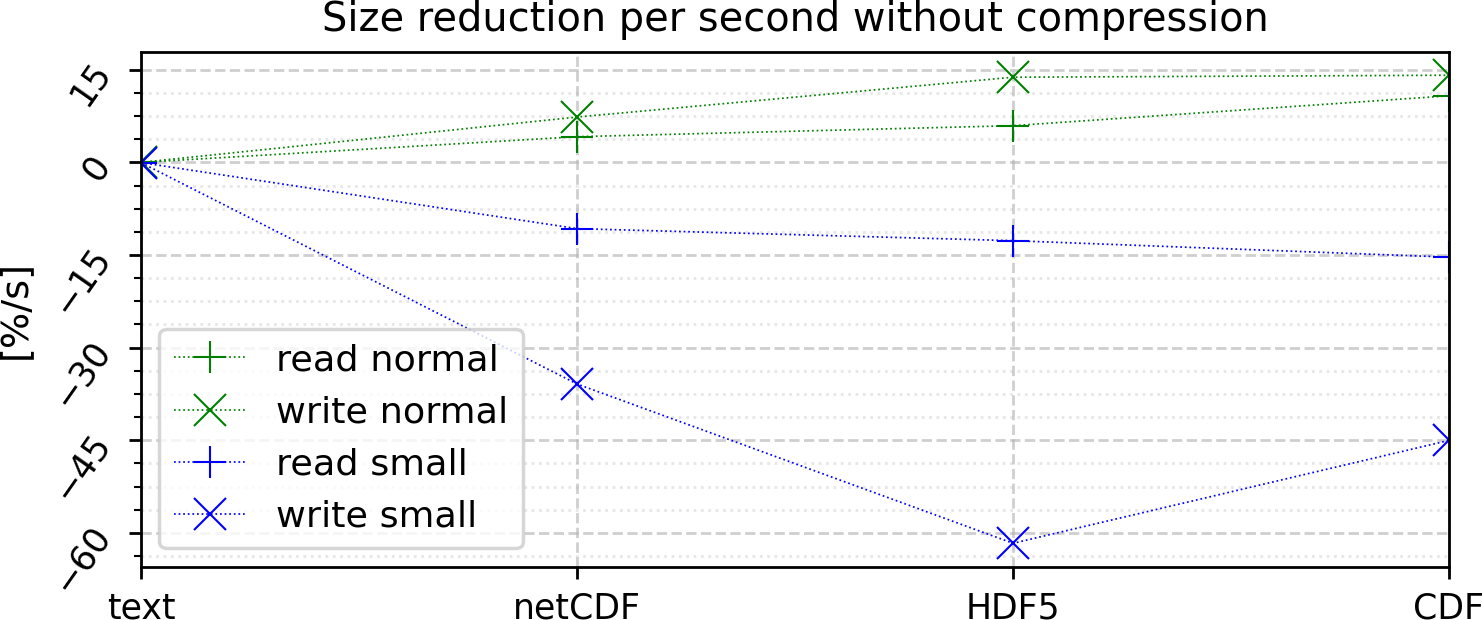
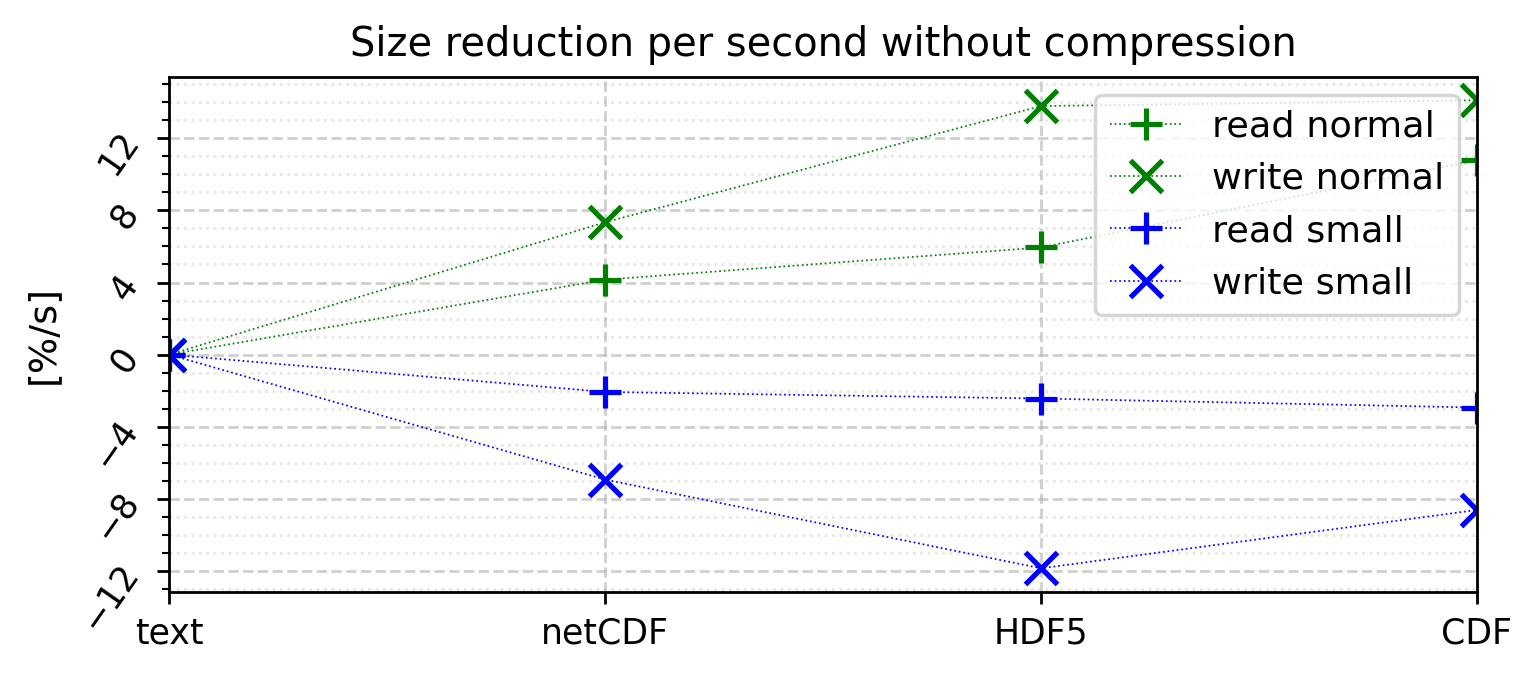
backup

diff --git a/result_analysis/plot.py b/result_analysis/plot.py
@@ -6,9 +6,10 @@ np.set_printoptions(precision=3, suppress=True)
 #plt.rc('font', size=16)
 #plt.rc('legend', fontsize=10)
 
-colors=['green','green','blue','blue']
-def plot_(labels, data, markers, label_names, filename, ylabel, title, limit_y = True):
-    fig = plt.figure(tight_layout = True, dpi = 250, figsize=[6.25,2.8])
+colors = ['green','green','blue','blue']#['green','blue']#
+markers = ["+", "x"]#["+", "+", "x", "x"]#
+def plot_(labels, data, markers, colors, label_names, filename, ylabel, title, limit_y = True, figsize = [6.25,2.8], linestyle = ":"):
+    fig = plt.figure(tight_layout = True, dpi = 250, figsize=figsize)
 
 
     print(filename)
@@ -16,7 +17,7 @@ def plot_(labels, data, markers, label_names, filename, ylabel, title, limit_y =
     for i in range(0, len(data)):
         print(label_names[i], data[i])
         #data[i] = data[i][np.logical_not(np.isnan(data[i]))]
-        plt.plot(labels, data[i], marker = markers[i%2], color=colors[i], label = label_names[i], linestyle=":", markersize=9,lw=0.5,mew=0.6)
+        plt.plot(labels, data[i], marker = markers[i%2], color=colors[i], label = label_names[i], linestyle=linestyle, markersize=9,lw=0.5,mew=1.5)
     print("-----------------------------")
     plt.legend(fontsize=10.5)
     plt.ylabel(ylabel, fontsize=11)
@@ -38,10 +39,20 @@ def plot_(labels, data, markers, label_names, filename, ylabel, title, limit_y =
     plt.close('all')
 
 #markers = ["s", "+", "x", "D", "1", "8", "p", "*"]
-markers = ["+", "x"]
 
 label_names = ["read normal", "write normal", "read small", "write small", "lossy read normal", "lossy write normal", "lossy read small", "lossy write small"]
-
+################################xx
+##########
+"""data = [
+    ((d.normal_uncompressed_ram[0])/(100*((-d.normal_uncompressed_sz[0]+d.normal_uncompressed_sz[0][0])/d.normal_uncompressed_sz[0][0])))[0:3],
+    ((d.normal_uncompressed_ram[1])/(100*((-d.normal_uncompressed_sz[0]+d.normal_uncompressed_sz[0][0])/d.normal_uncompressed_sz[0][0])))[0:3],
+    ((d.small_uncompressed_ram[0])/(100*((-d.small_uncompressed_sz[0]+d.small_uncompressed_sz[0][0])/d.small_uncompressed_sz[0][0])))[0:3],
+    ((d.small_uncompressed_ram[1])/(100*((-d.small_uncompressed_sz[0]+d.small_uncompressed_sz[0][0])/d.small_uncompressed_sz[0][0])))[0:3],
+]
+print(data)
+plot_(["netCDF","HDF5","CDF"], data, markers, label_names, '2_0_uncompressed_rps.png', "[%/s]", "Size reduction per second without compression", False)
+"""
+################################xx
 data = [
     83484/d.normal_uncompressed_ram[0],
     83484/d.normal_uncompressed_ram[1],
@@ -49,7 +60,7 @@ data = [
     180000/d.small_uncompressed_ram[1],
 ]
 
-plot_(d.uncompressed_labels, data, markers, label_names, '0_0_uncompressed_fps.png', "Processing speed [element/s]", "Number of elements processed without compression")
+plot_(d.uncompressed_labels, data, markers, colors, label_names, '0_0_uncompressed_fps.png', "Processing speed [element/s]", "Number of elements processed without compression")
 
 
 data = [
@@ -59,7 +70,7 @@ data = [
     180000/d.small_uncompressed_ram[3],
 ]
 
-plot_(d.uncompressed_labels, data, markers, label_names, '0_1_lossy_uncompressed_fps.png', "Processing speed [element/s]", "Number of elements processed without compression - lossy format")
+plot_(d.uncompressed_labels, data, markers, colors, label_names, '0_1_lossy_uncompressed_fps.png', "Processing speed [element/s]", "Number of elements processed without compression - lossy format")
 
 data = [
     83484/d.normal_compressed_ram[0],
@@ -68,7 +79,7 @@ data = [
     180000/d.small_compressed_ram[1],
 ]
 
-plot_(d.compressed_labels, data, markers, label_names, '0_2_compressed_fps.png', "Processing speed [element/s]", "Number of elements processed with compression")
+plot_(d.compressed_labels, data, markers, colors, label_names, '0_2_compressed_fps.png', "Processing speed [element/s]", "Number of elements processed with compression")
 
 data = [
     83484/d.normal_compressed_ram[2],
@@ -77,45 +88,69 @@ data = [
     180000/d.small_compressed_ram[3],
 ]
 
-plot_(d.compressed_labels, data, markers, label_names, '0_3_lossy_compressed_fps.png', "Processing speed [element/s]", "Number of elements processed with compression - lossy format")
+plot_(d.compressed_labels, data, markers, colors, label_names, '0_3_lossy_compressed_fps.png', "Processing speed [element/s]", "Number of elements processed with compression - lossy format")
 ##########
 data = [
     (100*((-d.normal_uncompressed_sz[0]+d.normal_uncompressed_sz[0][0])/d.normal_uncompressed_sz[0][0]))/(d.normal_uncompressed_ram[0]),
     (100*((-d.normal_uncompressed_sz[0]+d.normal_uncompressed_sz[0][0])/d.normal_uncompressed_sz[0][0]))/(d.normal_uncompressed_ram[1]),
-    (100*((-d.small_uncompressed_sz[0]+d.normal_uncompressed_sz[0][0])/d.normal_uncompressed_sz[0][0]))/(d.small_uncompressed_ram[0]),
-    (100*((-d.small_uncompressed_sz[0]+d.normal_uncompressed_sz[0][0])/d.normal_uncompressed_sz[0][0]))/(d.small_uncompressed_ram[1]),
+    (100*((-d.small_uncompressed_sz[0]+d.small_uncompressed_sz[0][0])/d.small_uncompressed_sz[0][0]))/(d.small_uncompressed_ram[0]),
+    (100*((-d.small_uncompressed_sz[0]+d.small_uncompressed_sz[0][0])/d.small_uncompressed_sz[0][0]))/(d.small_uncompressed_ram[1]),
 ]
 
-plot_(d.uncompressed_labels, data, markers, label_names, '1_0_uncompressed_rps.png', "[%/s]", "Size reduction per second without compression", False)
+plot_(d.uncompressed_labels, data, markers, colors, label_names, '1_0_uncompressed_rps.png', "[%/s]", "Size reduction per second without compression", False)
 
 data = [
     (100*((-d.normal_uncompressed_sz[1]+d.normal_uncompressed_sz[0][0])/d.normal_uncompressed_sz[0][0]))/d.normal_uncompressed_ram[2],
     (100*((-d.normal_uncompressed_sz[1]+d.normal_uncompressed_sz[0][0])/d.normal_uncompressed_sz[0][0]))/d.normal_uncompressed_ram[3],
-    (100*((-d.small_uncompressed_sz[1]+d.normal_uncompressed_sz[0][0])/d.normal_uncompressed_sz[0][0]))/d.small_uncompressed_ram[2],
-    (100*((-d.small_uncompressed_sz[1]+d.normal_uncompressed_sz[0][0])/d.normal_uncompressed_sz[0][0]))/d.small_uncompressed_ram[3],
+    (100*((-d.small_uncompressed_sz[1]+d.small_uncompressed_sz[0][0])/d.small_uncompressed_sz[0][0]))/d.small_uncompressed_ram[2],
+    (100*((-d.small_uncompressed_sz[1]+d.small_uncompressed_sz[0][0])/d.small_uncompressed_sz[0][0]))/d.small_uncompressed_ram[3],
 ]
 
-plot_(d.uncompressed_labels, data, markers, label_names, '1_1_lossy_uncompressed_rps.png', "[%/s]", "Size reduction per second without compression - lossy format", False)
+plot_(d.uncompressed_labels, data, markers, colors, label_names, '1_1_lossy_uncompressed_rps.png', "[%/s]", "Size reduction per second without compression - lossy format", False)
 
 data = [
     (100*((-d.normal_compressed_sz[0]+d.normal_uncompressed_sz[0][0])/d.normal_uncompressed_sz[0][0]))/d.normal_compressed_ram[0],
     (100*((-d.normal_compressed_sz[0]+d.normal_uncompressed_sz[0][0])/d.normal_uncompressed_sz[0][0]))/d.normal_compressed_ram[1],
-    (100*((-d.small_compressed_sz[0]+d.normal_uncompressed_sz[0][0])/d.normal_uncompressed_sz[0][0]))/d.small_compressed_ram[0],
-    (100*((-d.small_compressed_sz[0]+d.normal_uncompressed_sz[0][0])/d.normal_uncompressed_sz[0][0]))/d.small_compressed_ram[1],
+    (100*((-d.small_compressed_sz[0]+d.small_uncompressed_sz[0][0])/d.small_uncompressed_sz[0][0]))/d.small_compressed_ram[0],
+    (100*((-d.small_compressed_sz[0]+d.small_uncompressed_sz[0][0])/d.small_uncompressed_sz[0][0]))/d.small_compressed_ram[1],
 ]
 
-plot_(d.compressed_labels, data, markers, label_names, '1_2_compressed_rps.png', "[%/s]", "Size reduction per second with compression", False)
+plot_(d.compressed_labels, data, markers, colors, label_names, '1_2_compressed_rps.png', "[%/s]", "Size reduction per second with compression", False)
 
 data = [
     (100*((-d.normal_compressed_sz[1]+d.normal_uncompressed_sz[0][0])/d.normal_uncompressed_sz[0][0]))/d.normal_compressed_ram[2],
     (100*((-d.normal_compressed_sz[1]+d.normal_uncompressed_sz[0][0])/d.normal_uncompressed_sz[0][0]))/d.normal_compressed_ram[3],
-    (100*((-d.small_compressed_sz[1]+d.normal_uncompressed_sz[0][0])/d.normal_uncompressed_sz[0][0]))/d.small_compressed_ram[2],
-    (100*((-d.small_compressed_sz[1]+d.normal_uncompressed_sz[0][0])/d.normal_uncompressed_sz[0][0]))/d.small_compressed_ram[3],
+    (100*((-d.small_compressed_sz[1]+d.small_uncompressed_sz[0][0])/d.small_uncompressed_sz[0][0]))/d.small_compressed_ram[2],
+    (100*((-d.small_compressed_sz[1]+d.small_uncompressed_sz[0][0])/d.small_uncompressed_sz[0][0]))/d.small_compressed_ram[3],
 ]
 
-plot_(d.compressed_labels, data, markers, label_names, '1_3_lossy_compressed_rps.png', "[%/s]", "Size reduction per second with compression - lossy format", False)
+plot_(d.compressed_labels, data, markers, colors, label_names, '1_3_lossy_compressed_rps.png', "[%/s]", "Size reduction per second with compression - lossy format", False)
 ##########
-data = [
+data = np.array([
+    np.concatenate(((100*((-d.normal_uncompressed_sz[0]+d.normal_uncompressed_sz[0][0])/d.normal_uncompressed_sz[0][0]))/(d.normal_uncompressed_ram[0]), (100*((-d.normal_compressed_sz[0]+d.normal_uncompressed_sz[0][0])/d.normal_uncompressed_sz[0][0]))/d.normal_compressed_ram[0]
+)),
+    np.concatenate(((100*((-d.normal_uncompressed_sz[0]+d.normal_uncompressed_sz[0][0])/d.normal_uncompressed_sz[0][0]))/(d.normal_uncompressed_ram[1]),(100*((-d.normal_compressed_sz[0]+d.normal_uncompressed_sz[0][0])/d.normal_uncompressed_sz[0][0]))/d.normal_compressed_ram[1])),
+    np.concatenate(((100*((-d.small_uncompressed_sz[0]+d.small_uncompressed_sz[0][0])/d.small_uncompressed_sz[0][0]))/(d.small_uncompressed_ram[0]),(100*((-d.small_compressed_sz[0]+d.small_uncompressed_sz[0][0])/d.small_uncompressed_sz[0][0]))/d.small_compressed_ram[0])),
+    np.concatenate(((100*((-d.small_uncompressed_sz[0]+d.small_uncompressed_sz[0][0])/d.small_uncompressed_sz[0][0]))/(d.small_uncompressed_ram[1]),(100*((-d.small_compressed_sz[0]+d.small_uncompressed_sz[0][0])/d.small_uncompressed_sz[0][0]))/d.small_compressed_ram[1])),
+
+    np.concatenate(((100*((-d.normal_uncompressed_sz[1]+d.normal_uncompressed_sz[0][0])/d.normal_uncompressed_sz[0][0]))/d.normal_uncompressed_ram[2],(100*((-d.normal_compressed_sz[1]+d.normal_uncompressed_sz[0][0])/d.normal_uncompressed_sz[0][0]))/d.normal_compressed_ram[2])),
+    np.concatenate(((100*((-d.normal_uncompressed_sz[1]+d.normal_uncompressed_sz[0][0])/d.normal_uncompressed_sz[0][0]))/d.normal_uncompressed_ram[3],(100*((-d.normal_compressed_sz[1]+d.normal_uncompressed_sz[0][0])/d.normal_uncompressed_sz[0][0]))/d.normal_compressed_ram[3])),
+    np.concatenate(((100*((-d.small_uncompressed_sz[1]+d.small_uncompressed_sz[0][0])/d.small_uncompressed_sz[0][0]))/d.small_uncompressed_ram[2],(100*((-d.small_compressed_sz[1]+d.small_uncompressed_sz[0][0])/d.small_uncompressed_sz[0][0]))/d.small_compressed_ram[2])),
+    np.concatenate(((100*((-d.small_uncompressed_sz[1]+d.small_uncompressed_sz[0][0])/d.small_uncompressed_sz[0][0]))/d.small_uncompressed_ram[3],(100*((-d.small_compressed_sz[1]+d.small_uncompressed_sz[0][0])/d.small_uncompressed_sz[0][0]))/d.small_compressed_ram[3]))
+
+])
+#data = 1 / data
+for i in range(0, len(data)):
+    data[i][np.isinf(np.abs(data[i]))] = 0
+    data[i][np.isnan(np.abs(data[i]))] = np.nan
+    data[i][data[i] < 0] = np.nan
+
+colors = ['green','blue','red','black', 'purple','brown','orange','yellowgreen']#['green','blue']#
+markers = ["+", "x", "+", "x"]#["+", "+", "x", "x"]#
+
+plot_(d.all_labels, data, markers, colors, label_names, '9_9_rps.png', "[%/s]", "Size reduction per second with compression", False, [12,4], "")
+
+"""data = [
     d.normal_uncompressed_ssd[0]/d.normal_uncompressed_ram[0],
     d.normal_uncompressed_ssd[1]/d.normal_uncompressed_ram[1],
     d.small_uncompressed_ssd[0]/d.small_uncompressed_ram[0],
@@ -139,4 +174,4 @@ data = [
     d.small_compressed_ssd[3]/d.small_compressed_ram[3],
 ]
 
-plot_(d.compressed_labels, data, markers, label_names, '2_compressed_ssd_to_ram.png', "[-]", "Disk slowdown with compression", False)
+plot_(d.compressed_labels, data, markers, label_names, '2_compressed_ssd_to_ram.png', "[-]", "Disk slowdown with compression", False)"""

diff --git a/result_analysis/data.py b/result_analysis/data.py
@@ -1,5 +1,7 @@
 import numpy as np
 
+all_labels = ["text","netCDF","HDF5","CDF","text*","netCDF*","HDF5 gzip*","HDF5 lzf*","CDF*"]
+
 uncompressed_labels = ["text","netCDF","HDF5","CDF"]
 uncompressed_lossy_labels = ["netCDF","HDF5"]
 compressed_labels = ["text","netCDF","HDF5 gzip","HDF5 lzf","CDF"]
